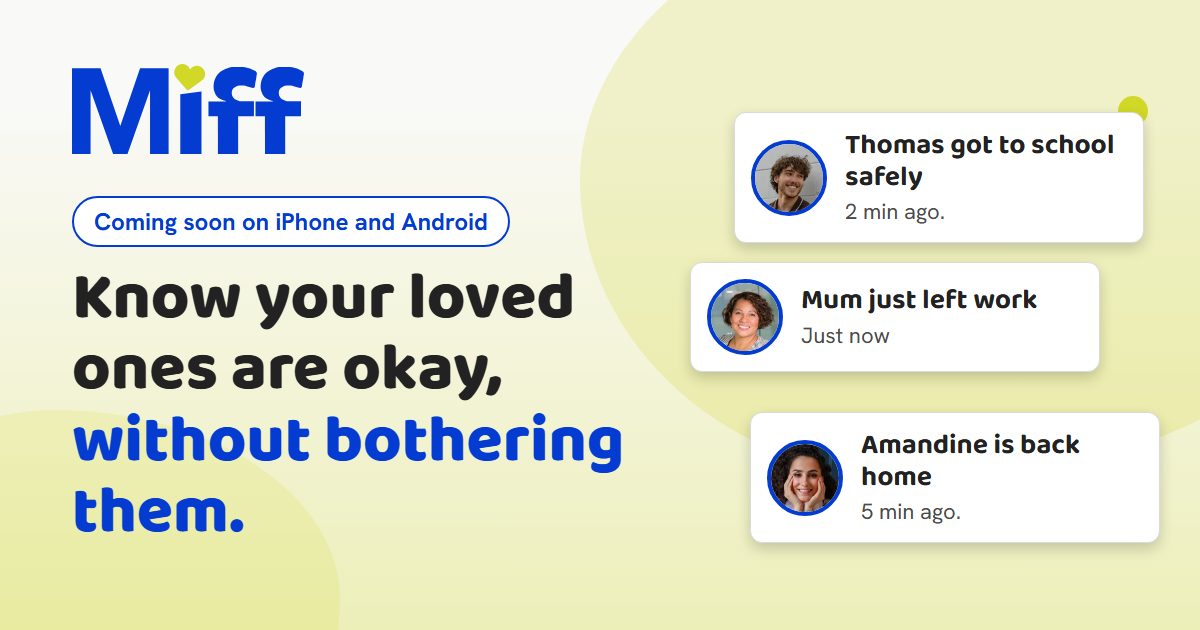
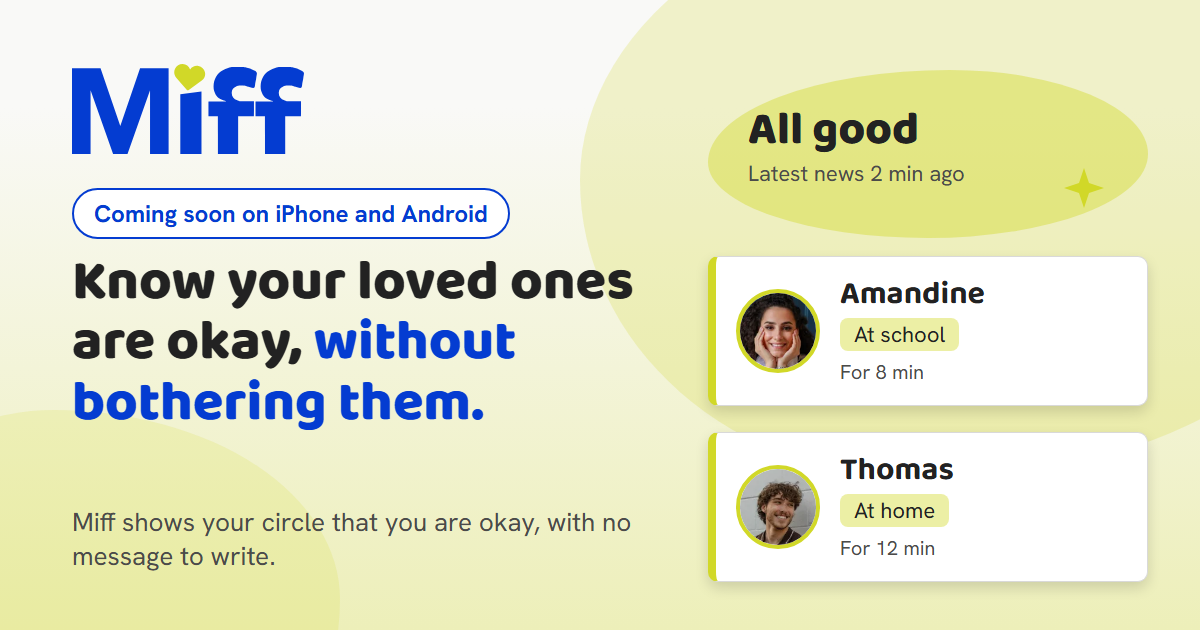
Web : images de partage sans bulles de notification (bulle Tout va bien et cartes de statut du Feed)
Les images Open Graph FR et EN montraient trois notifications d'arrivee et de depart, en contradiction avec la politique de confidentialite et l'accueil.
Elles montrent maintenant la bulle Tout va bien et deux cartes de statut, comme la maquette de l'accueil (1200 x 630, ~140 Ko).

diff --git a/web/tools/og-image.html b/web/tools/og-image.html
@@ -3,6 +3,8 @@
   Gabarit de l'image de partage (Open Graph / Twitter), 1200 x 630 px. Outil de développement : non publié.
   Rendu par web/tools/make-landing-images.mjs (adresse : /web/tools/og-image.html?lang=fr ou ?lang=en).
   Reprend le logo officiel (design/assets/logo/master), les polices et les couleurs du design system.
+  Montre la bulle « Tout va bien » et deux cartes de statut du Feed (comme la maquette de l'accueil) : Miff n'envoie
+  aucune notification d'arrivée ni de départ, il ne faut donc jamais représenter de telles notifications ici.
   Les photos sont celles du carrousel de bienvenue (licence Pexels, voir design/exports/onboarding-photos/CREDITS.md).
 -->
 <html>
@@ -25,30 +27,42 @@ body {
 .blob-b { width: 520px; height: 420px; left: -180px; bottom: -200px; border-radius: 45% 55% 40% 60% / 55% 45% 55% 45%; opacity: 0.16; }
 .logo { position: absolute; left: 72px; top: 64px; width: 232px; height: 90px; }
 .pill {
-  position: absolute; left: 72px; top: 196px;
+  position: absolute; left: 72px; top: 188px;
   display: inline-block; padding: 8px 20px; border-radius: 999px;
   background: #ffffff; border: 2px solid #043cd1; color: #043cd1;
   font-weight: 700; font-size: 24px;
 }
 h1 {
-  position: absolute; left: 72px; top: 262px; width: 620px;
+  position: absolute; left: 72px; top: 252px; width: 620px;
   font-family: "Baloo Thambi 2", sans-serif; font-weight: 800;
-  font-size: 66px; line-height: 1.08; color: #222222;
+  font-size: 64px; line-height: 1.08; color: #222222;
 }
+html[lang="en"] h1 { font-size: 56px; }
 h1 em { font-style: normal; color: #043cd1; }
-.chip {
-  position: absolute; display: flex; align-items: center; gap: 18px;
-  width: 410px; padding: 16px 20px 16px 16px;
-  background: #ffffff; border: 1px solid #d9d9d9; border-radius: 12px;
-  box-shadow: 0 6px 14px rgba(0, 0, 0, 0.18);
+.lead {
+  position: absolute; left: 72px; top: 506px; width: 600px;
+  font-size: 26px; line-height: 1.3; color: #4b4b4a;
 }
-.chip img { width: 76px; height: 76px; border-radius: 50%; border: 4px solid #043cd1; object-fit: cover; }
-.chip b { display: block; font-family: "Baloo Thambi 2", sans-serif; font-size: 28px; line-height: 1.15; }
-.chip span { display: block; font-size: 22px; color: #4b4b4a; margin-top: 4px; }
-.chip-1 { right: 56px; top: 112px; }
-.chip-2 { right: 100px; top: 262px; }
-.chip-3 { right: 40px; top: 412px; }
-.dot { position: absolute; right: 52px; top: 96px; width: 30px; height: 30px; border-radius: 50%; background: #d1d828; }
+.banner {
+  position: absolute; right: 52px; top: 70px; width: 440px; height: 168px;
+  padding: 34px 40px 0; border-radius: 55% 45% 50% 50% / 55% 50% 50% 45%;
+  background: rgba(209, 216, 40, 0.42);
+}
+.banner b { display: block; font-family: "Baloo Thambi 2", sans-serif; font-weight: 800; font-size: 46px; line-height: 1.1; }
+.banner span { display: block; font-size: 22px; color: #4b4b4a; margin-top: 4px; }
+.banner svg { position: absolute; right: 44px; bottom: 30px; width: 40px; height: 40px; fill: #d1d828; }
+.card {
+  position: absolute; right: 52px; width: 440px; padding: 20px 22px 20px 20px;
+  display: flex; align-items: center; gap: 20px;
+  background: #ffffff; border: 1px solid #d9d9d9; border-left: 8px solid #d1d828; border-radius: 10px;
+  box-shadow: 0 6px 14px rgba(0, 0, 0, 0.14);
+}
+.card img { flex: none; width: 84px; height: 84px; border-radius: 50%; border: 4px solid #d1d828; object-fit: cover; }
+.card b { display: block; font-family: "Baloo Thambi 2", sans-serif; font-weight: 700; font-size: 32px; line-height: 1.1; }
+.card .badge { display: inline-block; margin-top: 6px; padding: 2px 14px; border-radius: 8px; background: rgba(209, 216, 40, 0.42); font-size: 22px; }
+.card .since { display: block; margin-top: 8px; font-size: 20px; color: #4b4b4a; }
+.card-1 { top: 256px; }
+.card-2 { top: 432px; }
 </style>
 </head>
 <body>
@@ -57,35 +71,43 @@ h1 em { font-style: normal; color: #043cd1; }
 <img class="logo" src="/design/assets/logo/master/miff-wordmark-color.svg" alt="">
 <span class="pill" id="pill"></span>
 <h1 id="title"></h1>
-<div class="dot"></div>
-<div class="chip chip-1"><img src="/web/src/assets/img/avatar-thomas.webp" alt=""><div><b id="c1t"></b><span id="c1s"></span></div></div>
-<div class="chip chip-2"><img src="/web/src/assets/img/avatar-maman.webp" alt=""><div><b id="c2t"></b><span id="c2s"></span></div></div>
-<div class="chip chip-3"><img src="/web/src/assets/img/avatar-amandine.webp" alt=""><div><b id="c3t"></b><span id="c3s"></span></div></div>
+<p class="lead" id="lead"></p>
+<div class="banner"><b id="bt"></b><span id="bs"></span><svg viewBox="0 0 24 24" aria-hidden="true"><path d="M12 0l3 9 9 3-9 3-3 9-3-9-9-3 9-3z"/></svg></div>
+<div class="card card-1"><img src="/web/src/assets/img/avatar-amandine.webp" alt=""><div><b id="n1"></b><span class="badge" id="b1"></span><span class="since" id="s1"></span></div></div>
+<div class="card card-2"><img src="/web/src/assets/img/avatar-thomas.webp" alt=""><div><b id="n2"></b><span class="badge" id="b2"></span><span class="since" id="s2"></span></div></div>
 <script>
+// Textes repris de web/src/landing.json (maquette de l'accueil).
 const texts = {
   fr: {
     pill: 'Bientôt sur iPhone et Android',
     title: 'Savoir que tes proches vont bien, <em>sans les déranger.</em>',
-    c1: ['Thomas est bien arrivé à l’école', 'Il y a 2 min.'],
-    c2: ['Maman vient de quitter le travail', 'À l’instant'],
-    c3: ['Amandine est rentrée à la maison', 'Il y a 5 min.'],
+    lead: 'Miff montre à ton cercle que tu vas bien, sans message à écrire.',
+    banner: ['Tout va bien', 'Dernière nouvelle il y a 2 min'],
+    c1: ['Amandine', 'À l’école', 'Depuis 8 min'],
+    c2: ['Thomas', 'À la maison', 'Depuis 12 min'],
   },
   en: {
     pill: 'Coming soon on iPhone and Android',
     title: 'Know your loved ones are okay, <em>without bothering them.</em>',
-    c1: ['Thomas got to school safely', '2 min ago.'],
-    c2: ['Mum just left work', 'Just now'],
-    c3: ['Amandine is back home', '5 min ago.'],
+    lead: 'Miff shows your circle that you are okay, with no message to write.',
+    banner: ['All good', 'Latest news 2 min ago'],
+    c1: ['Amandine', 'At school', 'For 8 min'],
+    c2: ['Thomas', 'At home', 'For 12 min'],
   },
 };
 const lang = new URLSearchParams(location.search).get('lang') === 'en' ? 'en' : 'fr';
 const t = texts[lang];
 document.documentElement.lang = lang;
-document.getElementById('pill').textContent = t.pill;
+const set = (id, value) => { document.getElementById(id).textContent = value; };
+set('pill', t.pill);
 document.getElementById('title').innerHTML = t.title;
-[['c1', t.c1], ['c2', t.c2], ['c3', t.c3]].forEach(([id, [title, sub]]) => {
-  document.getElementById(`${id}t`).textContent = title;
-  document.getElementById(`${id}s`).textContent = sub;
+set('lead', t.lead);
+set('bt', t.banner[0]);
+set('bs', t.banner[1]);
+[['1', t.c1], ['2', t.c2]].forEach(([i, [name, badge, since]]) => {
+  set(`n${i}`, name);
+  set(`b${i}`, badge);
+  set(`s${i}`, since);
 });
 </script>
 </body>
